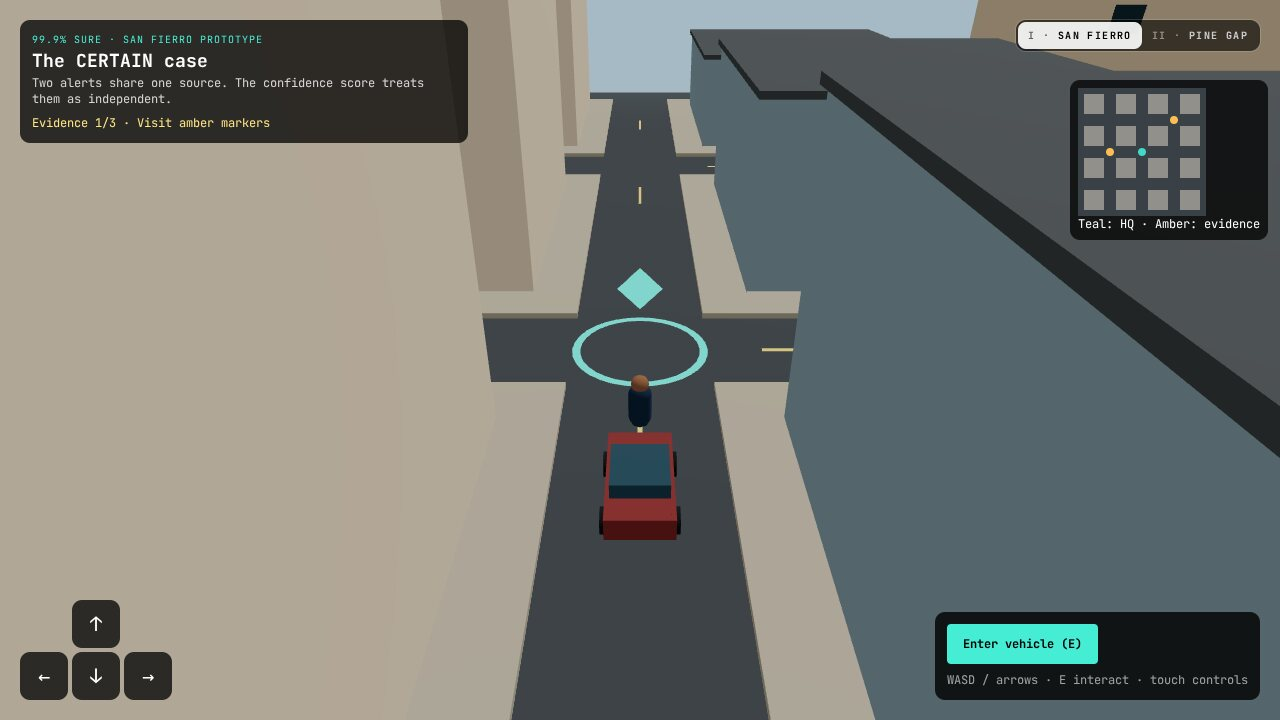
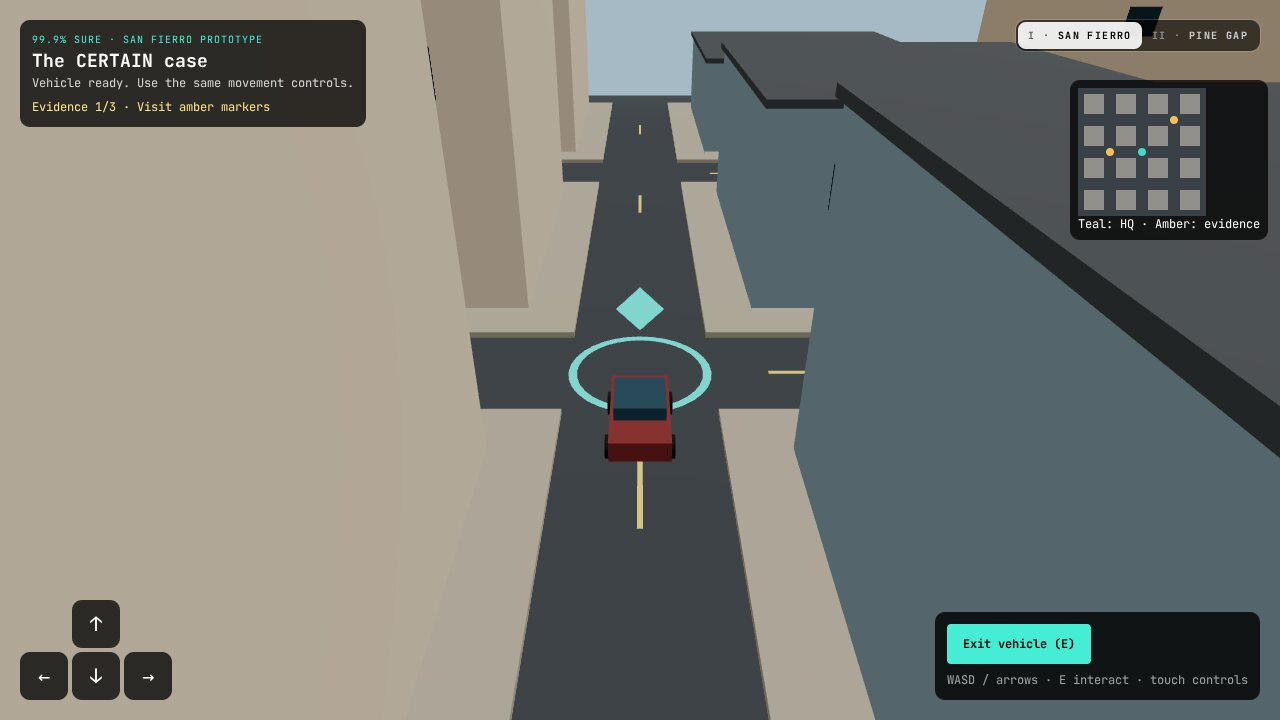
Refilm the San Fierro stills; show Christopher in the hidden case on its developer page
The San Fierro capture is rerun from the running game. Start, verdict and
phone came out unchanged; the driving still now shows the car actually
driving up the centre street (the old one was taken before getting in).
The hidden-case stills, with Christopher Woodyard as the player, go on
docs/HIDDEN_CAMPAIGN.md only, so the README stays spoiler-free. The
temporary capture workflow is removed.

diff --git a/docs/HIDDEN_CAMPAIGN.md b/docs/HIDDEN_CAMPAIGN.md
@@ -69,6 +69,12 @@ The audit notes call out the echo, the number of lines and calibration (a 99.9% 
 
 The player in the case is Christopher Woodyard in the model made for the San Andreas mod (`gta-sa-99-9-percent-sure`, see its `docs/CHARACTER.md`): the same procedural mesh and the same four painted textures (`assets/character/textures/chrisw_*.png`, loaded as they are).
 
+| At a survey post | Handing in the verdict at the van |
+| --- | --- |
+| ![Christopher Woodyard on foot beside the east survey post, waiting for the bearing to settle](media/screens/hidden-case/survey-post.jpg) | ![The evidence board open at the van, with Christopher standing beside it](media/screens/hidden-case/board.jpg) |
+
+*Captured from the running game by `scripts/playtest-hidden-case.mjs` (headless Chromium, software WebGL). These give the case away, so they stay on this page and out of the README.*
+
 - `python3 -I gta-sa-99-9-percent-sure/tools/character/export_web.py` writes `src/game/hidden/chris/chrisw-mesh.json`. It builds the mesh on the repository's synthetic skeleton (`rw.sa_ped_skeleton()`, hand-placed joints), so no game file is read and nothing from GTA San Andreas is in the browser build. The output is deterministic.
 - The export converts to the browser rig's frame (+X his left, +Y up, +Z forward, feet at the origin) and scales him so the pelvis is at 0.98 m, the height seating assumes. Bones keep only positions at bind.
 - `ChrisVisual` applies the existing animator's `CharacterPose` to those bones with the same rotations the procedural figures use, so he walks, runs, sits and drives with the animations already in the game. The model is bound in a T-pose, so the upper arms carry a fixed rest rotation (80° down) under the pose's shoulder and elbow angles.
